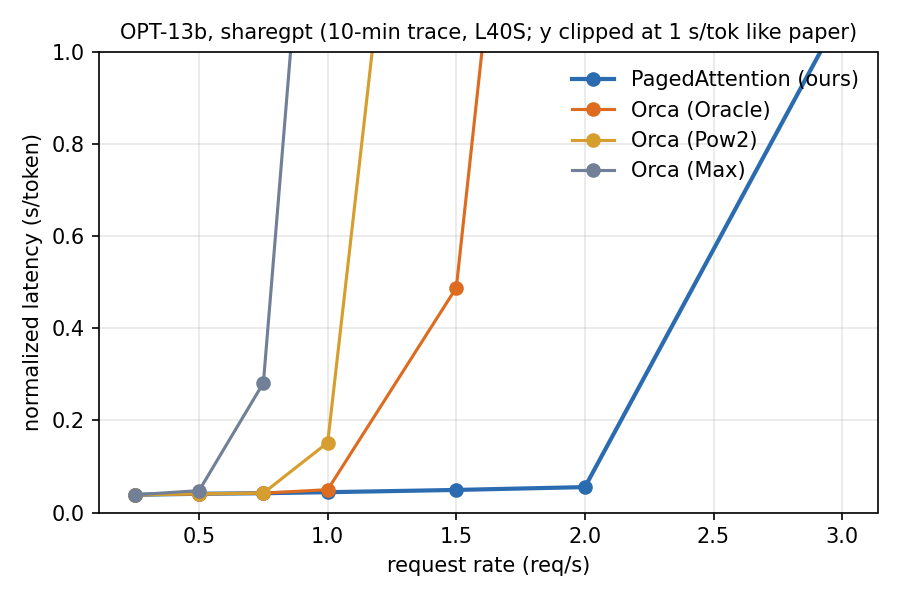
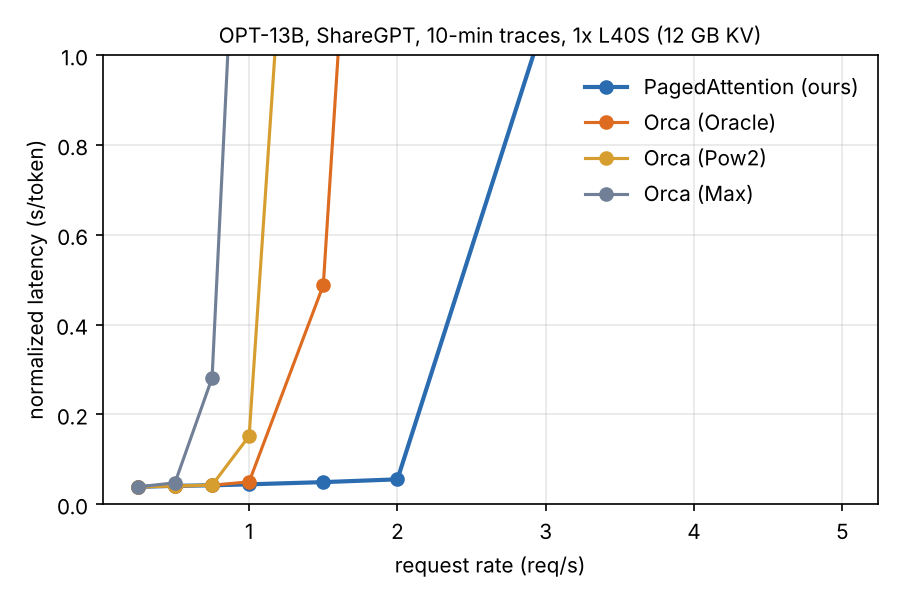
Results

diff --git a/docs/EXPERIMENTS.md b/docs/EXPERIMENTS.md
@@ -103,7 +103,7 @@ See [EXTENSIONS.md](EXTENSIONS.md).
 | E1–E2 dry run | OPT-1.3B | 1.5 |
 | E1–E2 quick pass | OPT-13B | 11 |
 | E1–E2 final pass (1-h traces) | OPT-13B | 56–70 |
-| E3 | OPT-13B | 3 |
+| E3 (beam only; parallel cut 21 Nov) | OPT-13B | 3 |
 | E4 | OPT-13B | 2 |
 | E6 | — | 0.5 |
 | E7–E8 | OPT-1.3B | 3 |
@@ -117,13 +117,13 @@ If the queue is busy near the deadline: skip the final 1-hour pass and present t
 | Exp | Paper result | Our result | Matches? | Notes |
 | --- | --- | --- | --- | --- |
 | E0 | 20.4–38.2% vs ≈96% | Simulator, synthetic ShareGPT, OPT-13B 12 GB: Max 19.9%, Pow2 29.6%, Oracle 38.2%, paged 97.0% | Yes | 26 Oct; `results/e0_sharegpt.png`. Rerun with the real ShareGPT file |
-| E1 ShareGPT | 1.7–2.7× vs Oracle, 2.7–8× vs Max | OPT-13B, 10-min trace, L40S: saturated throughput paged 2.50 req/s vs Oracle 1.44 (**1.74×**), Pow2 1.12 (2.23×), Max 0.81 (**3.09×**). At 2 req/s: paged 0.055 s/tok vs Oracle 3.06. OPT-1.3B: 1.57× Oracle, 2.47× Max | Yes (low end of range) | 27 Oct, jobs 6919_0–3 / 6902_0–3, commit 88e0a17. `results/from_logs/e1_opt13b_sharegpt.png`. Orca-Max 13B at 3 req/s timed out (1552/1800). Quick pass only (10 min, not 1 h) |
-| E1 Alpaca | similar trend | OPT-1.3B only: paged / Oracle / Pow2 all unsaturated at 64 req/s; Max saturates at 21.5 req/s (paged ≥ **2.97×** Max) | Partial | 13B Alpaca **not run**; 1.3B needs rates > 64 to show the paged vs Oracle gap |
-| E2 | 2.2× vs Oracle, 4.3× vs Max | **GPU, OPT-13B ShareGPT** (mean running requests at highest rate): paged 34.1 vs Oracle 14.5 (**2.35×**), Pow2 10.4 (3.28×), Max 7.0 (**4.87×**). Simulator: 2.37× / 4.43× | Yes | `results/from_logs/e2_opt13b_sharegpt_batch_throughput.png` |
-| E3 parallel | 6.1–9.8% saved | | | |
+| E1 ShareGPT | 1.7–2.7× vs Oracle, 2.7–8× vs Max | OPT-13B, 10-min trace, L40S: saturated throughput paged **2.52 req/s** (plateau confirmed: 2.51 at 4.0 and 2.52 at 5.0 req/s) vs Oracle 1.44 (**1.75×**), Pow2 1.12 (2.25×), Max 0.81 (**3.11×**). At 2 req/s: paged 0.055 s/tok vs Oracle 3.06. OPT-1.3B: 1.57× Oracle, 2.47× Max | Yes (low end of range) | 27 Oct jobs 6919_0–3 / 6902_0–3 (88e0a17); plateau job 7693, 20 Nov (c151a7c). `results/from_logs/e1_opt13b_sharegpt.png`. Orca-Max 13B at 3 req/s timed out (1552/1800). Quick pass only (10 min, not 1 h) |
+| E1 Alpaca | similar trend | **OPT-13B**, 10-min trace, rates 2–40 req/s: saturated throughput paged **35.7 req/s** vs Oracle 23.7 (**1.50×**), Pow2 15.3 (2.34×), Max 3.26 (**10.9×**). Capacity at ≤ 0.1 s/tok: paged 36, Oracle 20 (1.8×), Pow2 12 (3×), Max 2 (18×). OPT-1.3B: only Max saturates by 64 req/s (paged ≥ 2.97× Max) | Yes (gain vs Oracle smaller than ShareGPT, as expected for short sequences) | 20–21 Nov, jobs 7692 array + 7732 array (paged/Oracle 24–40), commit c151a7c. `results/from_logs/e1_opt13b_alpaca.png`. Orca-Max at ≥ 12 req/s hit the wall-time cap (~6240 finished) |
+| E2 | 2.2× vs Oracle, 4.3× vs Max | **GPU, OPT-13B ShareGPT** (peak mean running requests): paged 35.3 vs Oracle 14.5 (**2.43×**), Pow2 10.4 (3.39×), Max 7.0 (**5.04×**). **Alpaca 13B:** paged 175.7 vs Oracle 73.8 (2.38×), Pow2 41.2 (4.26×), Max 7.0 (25×). Simulator: 2.37× / 4.43× | Yes | `results/from_logs/e2_opt13b_{sharegpt,alpaca}_batch_throughput.png` |
+| E3 parallel | 6.1–9.8% saved | — | Cut | Decided 21 Nov: skipped to make time for X1. Parallel sampling itself is implemented and tested (fork / ref counts / COW), so it can still be shown as a correctness result |
 | E3 beam | 37.6–55.2% saved | | | |
 | E4 | 1.67× / 3.58× | | | |
 | E6 | +20–26% kernel time | Triton paged vs contiguous SDPA, OPT-13B dims: batch 32 **+2–10%**; batch 8 +28–108% at ctx ≤ 512 (launch overhead dominates, < 80 µs absolute), −8% at ctx 1024. PyTorch gather reference is 2.6–3.3× slower than Triton | Yes (overhead ≤ paper's at batch 32) | 26 Oct, job 6894, commit b163d12. Baseline is SDPA, not FasterTransformer. `results/from_logs/e6_kernel.png` |
-| E7 | best 16–128 | | | |
-| E8 | crossover ~16–64 | | | |
+| E7 | best 16–128 | OPT-1.3B ShareGPT, 12 req/s, 12 GB KV: normalized latency bs1 **7.0**, bs2 0.115, bs4 0.026, bs8 0.017, bs16 0.014, bs32 0.012, bs64–256 0.011–0.012 s/tok. Throughput 6.1 req/s at bs1, ≥ 11.8 from bs16 up | Mostly — small blocks clearly bad; flat from 32; no large-block penalty seen on ShareGPT | 20 Nov, jobs 7694–7711, c151a7c. `results/from_logs/e7_block_size.png`. Alpaca block sweep not run (paper's large-block penalty shows on Alpaca) |
+| E8b | recompute better at small blocks, swap at large | OPT-1.3B ShareGPT, 12 req/s, **1.5 GB KV** (forces 4–36k preemptions): recompute vs swap s/tok — bs4 8.84 vs 9.12, bs16 3.75 vs 3.97, bs64 **2.75** vs 2.99, bs256 7.53 vs **5.07**. Recompute wins by 3–8% up to bs64; swap wins by 33% at bs256 | Yes (qualitative crossover between 64 and 256) | 21 Nov, jobs 7724–7731, c151a7c. `results/from_logs/e8b_swap_vs_recompute.png`. At 12 GB (jobs 7694–7711) only bs1/bs2 preempt (recompute 0.115 vs swap 0.186 at bs2). Open: recompute at bs256 preempts 35.6k times vs 6.0k for swap (likely re-admission thrashing with only ~32 blocks). E8a microbenchmark cut |
 | E9 | — (new) | | | |

diff --git a/results/from_logs/README.md b/results/from_logs/README.md
@@ -1,16 +1,20 @@
 # Results rebuilt from cluster logs
 
 These CSVs were **rebuilt from the SLURM logs in `logs/`** (the per-rate lines `run_serving.py` / `kernel_bench.py` print),
-because the original CSVs are on the cluster under `~/pa_data/results/` (`e1_pilot/`, `e1_13b/`, `e6_kernel.csv`).
+because the original CSVs are on the cluster under `~/pa_data/results/` (`e1_pilot/`, `e1_13b/`, `e1_13b_hi/`, `e7_e8b/`, `e8b_kv1.5/`, `e6_kernel.csv`).
 
 - Columns match `run_serving.py` where the log has the value; p50/p90 latency, TTFT and token throughput are not in the logs.
-- `job`, `git_commit` and `source` columns say which log each row came from.
-- Plots: `e1_*.png` made with `benchmarks/plot.py --ymax 1.0`; `e2_*.png` and `e6_kernel.png` are summary charts.
+- `kv_cache_gb`, `job`, `git_commit` and `source` columns say how each row was run and which log it came from.
+- Plots: `e1_*.png` made with `benchmarks/plot.py --ymax 1.0`; `e2_*`, `e6_kernel`, `e7_block_size` and `e8b_swap_vs_recompute` are summary charts
+  (generators kept outside the repo in `Claude outputs/report_src/`).
 - Once the cluster CSVs are copied over, prefer them and delete this folder.
 
 | File | Jobs | Commit |
 | --- | --- | --- |
 | e1_opt1.3b_sharegpt.csv | 6902_0–3 | 88e0a17 |
 | e1_opt1.3b_alpaca.csv | 6903_0–3 | 88e0a17 |
-| e1_opt13b_sharegpt.csv | 6919_0–3 | 88e0a17 |
+| e1_opt13b_sharegpt.csv | 6919_0–3, + paged 4.0/5.0 req/s plateau (7693) | 88e0a17, c151a7c |
+| e1_opt13b_alpaca.csv | 7692 array (4 systems, 2–20 req/s), + paged/Oracle 24–40 req/s (7732 array) | c151a7c |
+| e7_e8b_opt1.3b_kv12_sharegpt.csv | 7694–7711 (block 1–256 × recompute/swap, 12 GB KV) | c151a7c |
+| e8b_opt1.3b_kv1.5_sharegpt.csv | 7724–7731 (block 4/16/64/256 × recompute/swap, 1.5 GB KV) | c151a7c |
 | e6_kernel.csv | 6894 | b163d12 |

diff --git a/docs/PLAN.md b/docs/PLAN.md
@@ -78,7 +78,7 @@ Owners: **A** = memory management + scheduler, **B** = model + attention + bench
 ## Week 4 — Fri 13 → Thu 19 Nov: full reproduction on OPT-13B
 
 **A**
-- [ ] E3 parallel sampling / beam search runs (Fig. 14–15)
+- [ ] E3 beam search runs (Fig. 15), optional — parallel-sampling runs (Fig. 14) cut 21 Nov
 - [ ] E4 shared prefix runs (Fig. 16)
 - [ ] E7 block-size sweep, E8 swap vs recompute (Fig. 18b, 19)
 
